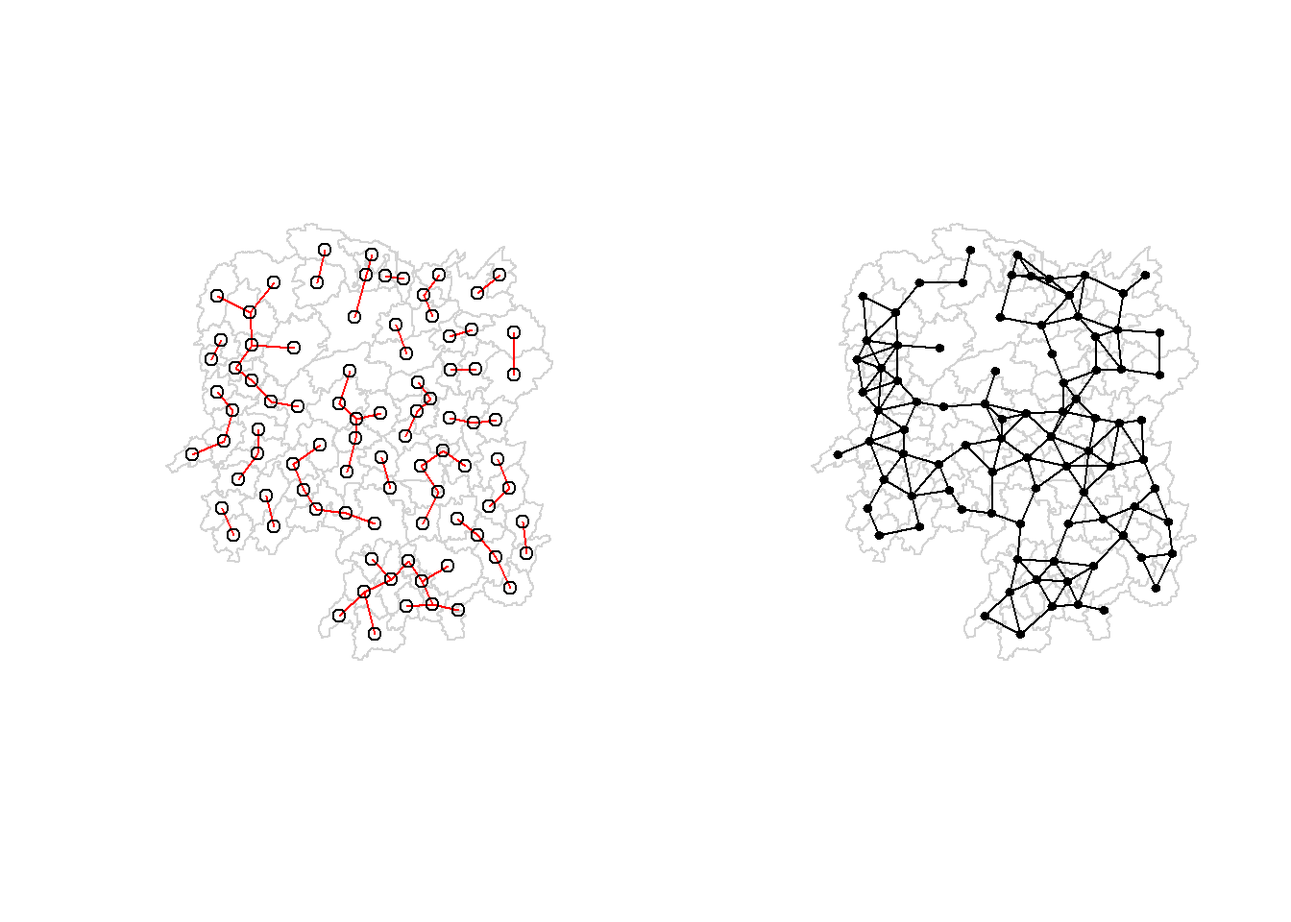
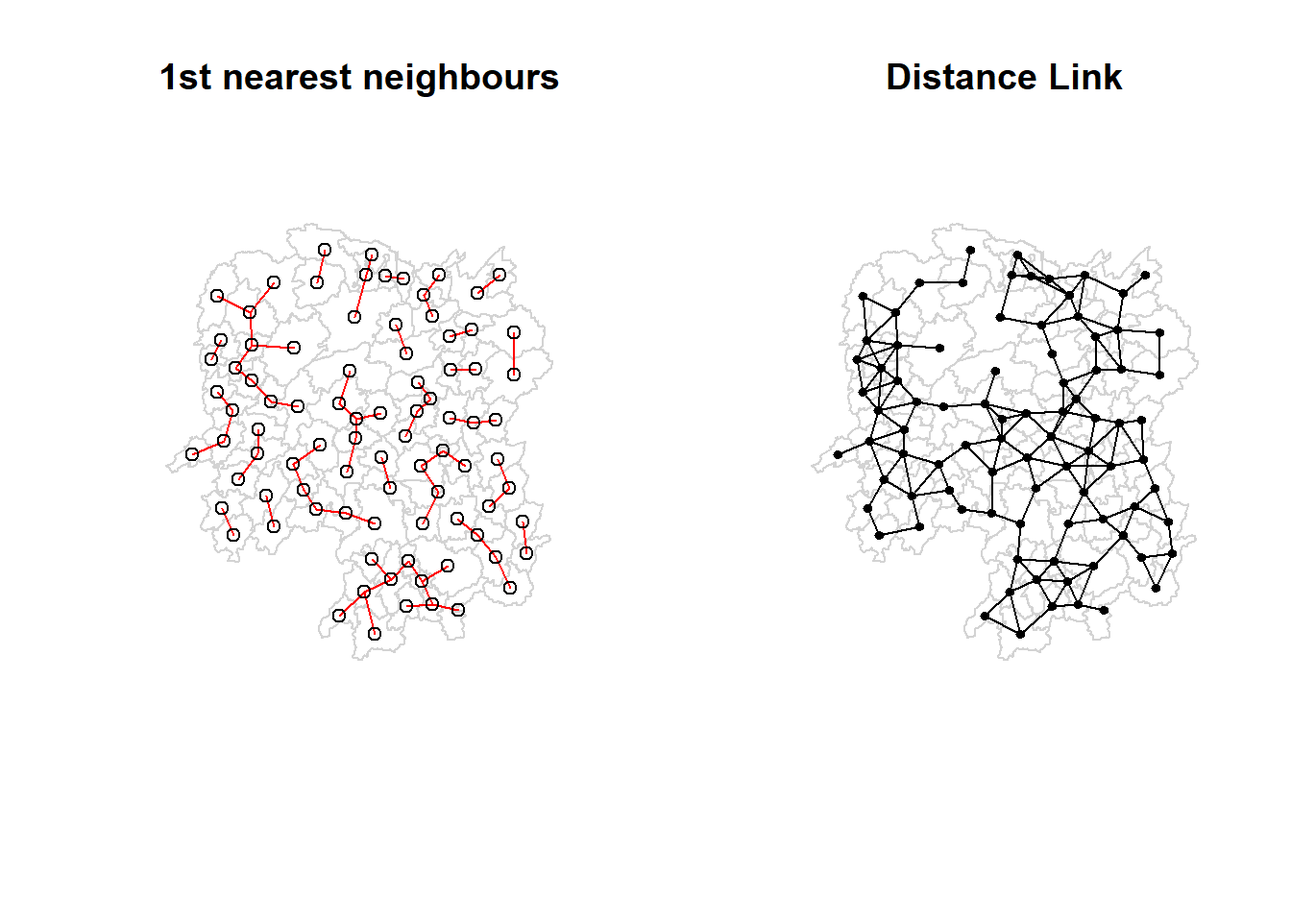
Updates to exercises

Changed region(s): [[0.125, 0.0625, 0.4375, 0.125], [0.6875, 0.0625, 0.875, 0.0938]]

diff --git a/_site/Exercises/Hands-on_Ex2/Hands-on_Ex2.html b/_site/Exercises/Hands-on_Ex2/Hands-on_Ex2.html
@@ -292,7 +292,7 @@ code span.wa { color: #60a0b0; font-weight: bold; font-style: italic; } /* Warni
 <h2 data-number="2" class="anchored" data-anchor-id="getting-started"><span class="header-section-number">2</span> Getting Started</h2>
 <section id="the-analytical-question" class="level3" data-number="2.1">
 <h3 data-number="2.1" class="anchored" data-anchor-id="the-analytical-question"><span class="header-section-number">2.1</span> The analytical question</h3>
-<p>In spatial policy, one of the main development objectives of the local govenment and planners is to <strong>ensure equal distribution of development</strong> in the province. Our task in this study, hence, is to <strong>apply appropriate spatial statistical methods to discover if development are even distributed geographically</strong>.</p>
+<p>In spatial policy, one of the main development objectives of the local government and planners is to <strong>ensure equal distribution of development</strong> in the province. Our task in this study, hence, is to <strong>apply appropriate spatial statistical methods to discover if development are even distributed geographically</strong>.</p>
 <p>If the answer is <strong>No</strong>. Then, our next question would be “is there sign of spatial clustering?”. And, if the answer for this question is <strong>Yes</strong>, then our next question will be “where are these clusters?”</p>
 <p>In this case study, we are interested to examine the spatial pattern of a selected development indicator (i.e.&nbsp;GDP per capita or GDPPC) of <a href="https://en.wikipedia.org/wiki/Hunan">Hunan Province</a>, People Republic of China.</p>
 </section>
@@ -317,7 +317,7 @@ code span.wa { color: #60a0b0; font-weight: bold; font-style: italic; } /* Warni
 <p>The geospatial data is in ESRI shapefile format and the attribute table is in csv fomat.</p>
 <section id="import-shapefile-into-r" class="level3" data-number="3.1">
 <h3 data-number="3.1" class="anchored" data-anchor-id="import-shapefile-into-r"><span class="header-section-number">3.1</span> Import shapefile into R</h3>
-<p>The code chunk below uses <a href="https://r-spatial.github.io/sf/reference/st_read.html"><em>st_read()</em></a> of <strong>sf</strong> package to import Hunan shapefile into R. The imported shapefile will be <strong>simple features</strong> object of <strong>sf</strong>.</p>
+<p>The code chunk below uses <a href="https://r-spatial.github.io/sf/reference/st_read.html"><em>st_read()</em></a> of <strong>sf</strong> package to import <code>Hunan</code> shapefile into R. The imported shapefile will be <strong>simple features</strong> object of <strong>sf</strong>.</p>
 <div class="cell">
 <div class="sourceCode cell-code" id="cb2"><pre class="sourceCode r code-with-copy"><code class="sourceCode r"><span id="cb2-1"><a href="#cb2-1" aria-hidden="true" tabindex="-1"></a>hunan <span class="ot">&lt;-</span> <span class="fu">st_read</span>(<span class="at">dsn =</span> <span class="st">'data</span><span class="sc">\\</span><span class="st">geospatial'</span>,</span>
 <span id="cb2-2"><a href="#cb2-2" aria-hidden="true" tabindex="-1"></a>                 <span class="at">layer =</span> <span class="st">'Hunan'</span>)</span></code><button title="Copy to Clipboard" class="code-copy-button"><i class="bi"></i></button></pre></div>
@@ -412,9 +412,9 @@ Link number distribution:
 </section>
 <section id="row-standardised-weights-matrix" class="level3" data-number="4.2">
 <h3 data-number="4.2" class="anchored" data-anchor-id="row-standardised-weights-matrix"><span class="header-section-number">4.2</span> Row-standardised weights matrix</h3>
-<p>Next, we need to assign weights to each neighboring polygon. In our case, each neighboring polygon will be assigned equal weight (style="W"). This is accomplished by assigning the fraction 1/(#ofneighbors) to each neighbouring county then summing the weighted income values.</p>
-<p>While this is the most intuitive way to summaries the neighbors' values it has one drawback in that polygons along the edges of the study area will base their lagged values on fewer polygons thus potentially over- or under-estimating the true nature of the spatial autocorrelation in the data.</p>
-<p>Note that other more robust options are available, notably style="B".</p>
+<p>Next, we need to assign weights to each neighboring polygon. In our case, each neighboring polygon will be assigned equal weight (style=“W”). This is accomplished by assigning the fraction 1/(#ofneighbors) to each neighbouring county then summing the weighted income values.</p>
+<p>While this is the most intuitive way to summaries the neighbors’ values it has one drawback in that polygons along the edges of the study area will base their lagged values on fewer polygons thus potentially over- or under-estimating the true nature of the spatial autocorrelation in the data.</p>
+<p>Note that other more robust options are available, notably style=“B”.</p>
 <div class="cell">
 <div class="sourceCode cell-code" id="cb10"><pre class="sourceCode r code-with-copy"><code class="sourceCode r"><span id="cb10-1"><a href="#cb10-1" aria-hidden="true" tabindex="-1"></a>rswm_q <span class="ot">&lt;-</span> <span class="fu">nb2listw</span>(wm_q,</span>
 <span id="cb10-2"><a href="#cb10-2" aria-hidden="true" tabindex="-1"></a>                   <span class="at">style =</span> <span class="st">"W"</span>,</span>
@@ -476,7 +476,7 @@ Moran I statistic       Expectation          Variance
 <h4 data-number="4.3.1" class="anchored" data-anchor-id="computing-monte-carlo-morans-i"><span class="header-section-number">4.3.1</span> Computing Monte Carlo Moran’s I</h4>
 <p>If we have doubts that the assumptions of Moran’s I are true (normality and randomisation), we can use a Monte Carlo simulation to perform a permutation test for Moran’s I.</p>
 <p>The permutation tests consists of randomly reassigning the attribute values to a cell under the assumption of no spatial pattern. This random assignment is conducted n times. Each time, we will compute the Moran’s I to creating an empirical distribution of Moran’s I under H0.</p>
-<p>The code chunk below performs permutation test for Moran's I statistic by using <a href="https://r-spatial.github.io/spdep/reference/moran.mc.html"><em>moran.mc()</em></a> of <strong>spdep</strong>. A total of 1000 simulation will be performed.</p>
+<p>The code chunk below performs permutation test for Moran’s I statistic by using <a href="https://r-spatial.github.io/spdep/reference/moran.mc.html"><em>moran.mc()</em></a> of <strong>spdep</strong>. A total of 1000 simulation will be performed.</p>
 <pre><code>moran.mc(x, listw, nsim, zero.policy=NULL, alternative="greater",
  na.action=na.fail, spChk=NULL, return_boot=FALSE, adjust.n=TRUE)</code></pre>
 <p>We will test the following hypothesis using a one-tailed test:</p>
@@ -508,7 +508,7 @@ alternative hypothesis: greater</code></pre>
 </section>
 <section id="visualising-monte-carlo-morans-i" class="level4" data-number="4.3.2">
 <h4 data-number="4.3.2" class="anchored" data-anchor-id="visualising-monte-carlo-morans-i"><span class="header-section-number">4.3.2</span> Visualising Monte Carlo Moran’s I</h4>
-<p>We can examine the simulated Moran's I test statistics in greater detail through descriptive statistics and plotting the distribution of the statistical values as a histogram by using the code chunks below.</p>
+<p>We can examine the simulated Moran’s I test statistics in greater detail through descriptive statistics and plotting the distribution of the statistical values as a histogram by using the code chunks below.</p>
 <p>The mean gives the average of Moran’s I for all simulated distributions.</p>
 <div class="cell">
 <div class="sourceCode cell-code" id="cb18"><pre class="sourceCode r code-with-copy"><code class="sourceCode r"><span id="cb18-1"><a href="#cb18-1" aria-hidden="true" tabindex="-1"></a><span class="fu">mean</span>(bperm<span class="sc">$</span>res[<span class="dv">1</span><span class="sc">:</span><span class="dv">999</span>])</span></code><button title="Copy to Clipboard" class="code-copy-button"><i class="bi"></i></button></pre></div>
@@ -516,7 +516,7 @@ alternative hypothesis: greater</code></pre>
 <pre><code>[1] -0.01504572</code></pre>
 </div>
 </div>
-<p>The variance of Moran's I for all simulated distributions can be computed using this code chunk.</p>
+<p>The variance of Moran’s I for all simulated distributions can be computed using this code chunk.</p>
 <div class="cell">
 <div class="sourceCode cell-code" id="cb20"><pre class="sourceCode r code-with-copy"><code class="sourceCode r"><span id="cb20-1"><a href="#cb20-1" aria-hidden="true" tabindex="-1"></a><span class="fu">var</span>(bperm<span class="sc">$</span>res[<span class="dv">1</span><span class="sc">:</span><span class="dv">999</span>])</span></code><button title="Copy to Clipboard" class="code-copy-button"><i class="bi"></i></button></pre></div>
 <div class="cell-output cell-output-stdout">
@@ -561,7 +561,7 @@ alternative hypothesis: greater</code></pre>
 </section>
 <section id="global-spatial-autocorrelation-gearys-c" class="level3" data-number="4.4">
 <h3 data-number="4.4" class="anchored" data-anchor-id="global-spatial-autocorrelation-gearys-c"><span class="header-section-number">4.4</span> Global Spatial Autocorrelation: Geary’s C</h3>
-<p>In this section, I learned how to perform Geary's C statistics testing by using appropriate functions of <strong>spdep</strong> package.</p>
+<p>In this section, I learned how to perform Geary’s C statistics testing by using appropriate functions of <strong>spdep</strong> package.</p>
 <section id="gearys-c-test" class="level4" data-number="4.4.1">
 <h4 data-number="4.4.1" class="anchored" data-anchor-id="gearys-c-test"><span class="header-section-number">4.4.1</span> Geary’s C Test</h4>
 <p>Geary’s C describe how features differ from their immediate neighbours. If the Geary’s C (Z-value is):</p>
@@ -575,7 +575,7 @@ alternative hypothesis: greater</code></pre>
 <li><p>H0: Observed spatial patterns of values is equally likely as any other spatial pattern i.e.&nbsp;data is randomly disbursed, no spatial pattern</p></li>
 <li><p>H1: Data is more spatially clustered than expected by chance alone</p></li>
 </ul>
-<p>The code chunk below performs Geary's C test for spatial autocorrelation by using <a href="https://r-spatial.github.io/spdep/reference/geary.test.html"><em>geary.test()</em></a> of <strong>spdep</strong>.</p>
+<p>The code chunk below performs Geary’s C test for spatial autocorrelation by using <a href="https://r-spatial.github.io/spdep/reference/geary.test.html"><em>geary.test()</em></a> of <strong>spdep</strong>.</p>
 <pre><code>geary.test(x, listw, randomisation=TRUE, zero.policy=NULL,
     alternative="greater", spChk=NULL, adjust.n=TRUE)</code></pre>
 <div class="cell">
@@ -598,7 +598,7 @@ Geary C statistic       Expectation          Variance
 </section>
 <section id="computing-monte-carlo-gearys-c" class="level4" data-number="4.4.2">
 <h4 data-number="4.4.2" class="anchored" data-anchor-id="computing-monte-carlo-gearys-c"><span class="header-section-number">4.4.2</span> Computing Monte Carlo Geary’s C</h4>
-<p>The code chunk below performs permutation test for Geary's C statistic by using <a href="https://r-spatial.github.io/spdep/reference/geary.mc.html"><em>geary.mc()</em></a> of <strong>spdep</strong>.</p>
+<p>The code chunk below performs permutation test for Geary’s C statistic by using <a href="https://r-spatial.github.io/spdep/reference/geary.mc.html"><em>geary.mc()</em></a> of <strong>spdep</strong>.</p>
 <div class="cell">
 <div class="sourceCode cell-code" id="cb30"><pre class="sourceCode r code-with-copy"><code class="sourceCode r"><span id="cb30-1"><a href="#cb30-1" aria-hidden="true" tabindex="-1"></a><span class="fu">set.seed</span>(<span class="dv">1234</span>)</span>
 <span id="cb30-2"><a href="#cb30-2" aria-hidden="true" tabindex="-1"></a>bperm <span class="ot">=</span> <span class="fu">geary.mc</span>(hunan<span class="sc">$</span>GDPPC,</span>
@@ -660,10 +660,10 @@ alternative hypothesis: greater</code></pre>
 </section>
 <section id="spatial-correlogram" class="level2" data-number="5">
 <h2 data-number="5" class="anchored" data-anchor-id="spatial-correlogram"><span class="header-section-number">5</span> Spatial Correlogram</h2>
-<p>Spatial correlograms are great to examine patterns of spatial autocorrelation in your data or model residuals. They show how correlated are pairs of spatial observations when you increase the distance (lag) between them - they are plots of some index of autocorrelation (Moran's I or Geary's c) against distance.Although correlograms are not as fundamental as variograms (a keystone concept of geostatistics), they are very useful as an exploratory and descriptive tool. For this purpose they actually provide richer information than variograms.</p>
+<p>Spatial correlograms are great to examine patterns of spatial autocorrelation in your data or model residuals. They show how correlated are pairs of spatial observations when you increase the distance (lag) between them - they are plots of some index of autocorrelation (Moran’s I or Geary’s c) against distance.Although correlograms are not as fundamental as variograms (a keystone concept of geostatistics), they are very useful as an exploratory and descriptive tool. For this purpose they actually provide richer information than variograms.</p>
 <section id="compute-morans-i-correlogram" class="level3" data-number="5.1">
 <h3 data-number="5.1" class="anchored" data-anchor-id="compute-morans-i-correlogram"><span class="header-section-number">5.1</span> Compute Moran’s I correlogram</h3>
-<p>In the code chunk below, <a href="https://r-spatial.github.io/spdep/reference/sp.correlogram.html"><em>sp.correlogram()</em></a> of <strong>spdep</strong> package is used to compute a 6-lag spatial correlogram of GDPPC. The global spatial autocorrelation used in Moran's I. The <strong>plot()</strong> of base Graph is then used to plot the output.</p>
+<p>In the code chunk below, <a href="https://r-spatial.github.io/spdep/reference/sp.correlogram.html"><em>sp.correlogram()</em></a> of <strong>spdep</strong> package is used to compute a 6-lag spatial correlogram of GDPPC. The global spatial autocorrelation used in Moran’s I. The <strong>plot()</strong> of base Graph is then used to plot the output.</p>
 <pre><code>sp.correlogram(neighbours, var, order = 1, method = "corr",
  style = "W", randomisation = TRUE, zero.policy = NULL, spChk=NULL)
 # S3 method for spcor
@@ -702,7 +702,7 @@ Signif. codes:  0 '***' 0.001 '**' 0.01 '*' 0.05 '.' 0.1 ' ' 1</code></pre>
 </section>
 <section id="compute-gearys-c-correlogram-and-plot" class="level3" data-number="5.2">
 <h3 data-number="5.2" class="anchored" data-anchor-id="compute-gearys-c-correlogram-and-plot"><span class="header-section-number">5.2</span> Compute Geary’s C correlogram and plot</h3>
-<p>In the code chunk below, <em>sp.correlogram()</em> of <strong>spdep</strong> package is used to compute a 6-lag spatial correlogram of GDPPC. The global spatial autocorrelation used in Geary's C. The <strong>plot()</strong> of base Graph is then used to plot the output.</p>
+<p>In the code chunk below, <em>sp.correlogram()</em> of <strong>spdep</strong> package is used to compute a 6-lag spatial correlogram of GDPPC. The global spatial autocorrelation used in Geary’s C. The <strong>plot()</strong> of base Graph is then used to plot the output.</p>
 <div class="cell">
 <div class="sourceCode cell-code" id="cb43"><pre class="sourceCode r code-with-copy"><code class="sourceCode r"><span id="cb43-1"><a href="#cb43-1" aria-hidden="true" tabindex="-1"></a>GC_corr <span class="ot">&lt;-</span> <span class="fu">sp.correlogram</span>(wm_q,</span>
 <span id="cb43-2"><a href="#cb43-2" aria-hidden="true" tabindex="-1"></a>                          hunan<span class="sc">$</span>GDPPC,</span>
@@ -737,11 +737,11 @@ Signif. codes:  0 '***' 0.001 '**' 0.01 '*' 0.05 '.' 0.1 ' ' 1</code></pre>
 <section id="cluster-and-outlier-analysis" class="level2" data-number="6">
 <h2 data-number="6" class="anchored" data-anchor-id="cluster-and-outlier-analysis"><span class="header-section-number">6</span> Cluster and Outlier Analysis</h2>
 <p>Local Indicators of Spatial Association or LISA are statistics that <strong>evaluate the existence of clusters in the spatial arrangement of a given variable</strong>. For instance if we are studying cancer rates among census tracts in a given city, local clusters in the rates mean that there are areas that have higher or lower rates than is to be expected by chance alone; that is, the values occurring are above or below those of a random distribution in space.</p>
-<p>In this section, I learned how to apply appropriate Local Indicators for Spatial Association (LISA), especially local Moran's I to detect cluster and/or outlier from GDP per capita 2012 of Hunan Province, PRC.</p>
+<p>In this section, I learned how to apply appropriate Local Indicators for Spatial Association (LISA), especially local Moran’s I to detect cluster and/or outlier from GDP per capita 2012 of Hunan Province, PRC.</p>
 <section id="computing-local-morans-i" class="level3" data-number="6.1">
 <h3 data-number="6.1" class="anchored" data-anchor-id="computing-local-morans-i"><span class="header-section-number">6.1</span> Computing local Moran’s I</h3>
-<p>To compute local Moran's I, the <a href="https://r-spatial.github.io/spdep/reference/localmoran.html"><em>localmoran()</em></a> function of <strong>spdep</strong> will be used. It computes <em>Ii</em> values, given a set of <em>zi</em> values and a listw object providing neighbour weighting information for the polygon associated with the zi values.</p>
-<p>The code chunks below are used to compute local Moran's I of <em>GDPPC2012</em> at the county level.</p>
+<p>To compute local Moran’s I, the <a href="https://r-spatial.github.io/spdep/reference/localmoran.html"><em>localmoran()</em></a> function of <strong>spdep</strong> will be used. It computes <em>Ii</em> values, given a set of <em>zi</em> values and a listw object providing neighbour weighting information for the polygon associated with the zi values.</p>
+<p>The code chunks below are used to compute local Moran’s I of <em>GDPPC2012</em> at the county level.</p>
 <div class="cell">
 <div class="sourceCode cell-code" id="cb46"><pre class="sourceCode r code-with-copy"><code class="sourceCode r"><span id="cb46-1"><a href="#cb46-1" aria-hidden="true" tabindex="-1"></a>localMI <span class="ot">&lt;-</span> <span class="fu">localmoran</span>(hunan<span class="sc">$</span>GDPPC, rswm_q)</span>
 <span id="cb46-2"><a href="#cb46-2" aria-hidden="true" tabindex="-1"></a><span class="fu">head</span>(localMI)</span></code><button title="Copy to Clipboard" class="code-copy-button"><i class="bi"></i></button></pre></div>
@@ -757,7 +757,7 @@ Signif. codes:  0 '***' 0.001 '**' 0.01 '*' 0.05 '.' 0.1 ' ' 1</code></pre>
 </div>
 <p><em>localmoran()</em> returns a matrix of values whose columns are:</p>
 <ul>
-<li><p>Ii: the local Moran's I statistics</p></li>
+<li><p>Ii: the local Moran’s I statistics</p></li>
 <li><p>E.Ii: the expectation of local moran statistic under the randomisation hypothesis</p></li>
 <li><p>Var.Ii: the variance of local moran statistic under the randomisation hypothesis</p></li>
 <li><p>Z.Ii:the standard deviation of local moran statistic</p></li>
@@ -862,7 +862,7 @@ Zixing        -7.6849e-01 -8.8210e-02  9.4057e-01 -7.0144e-01         0.4830</co
 </div>
 <section id="mapping-the-local-morans-i" class="level4" data-number="6.1.1">
 <h4 data-number="6.1.1" class="anchored" data-anchor-id="mapping-the-local-morans-i"><span class="header-section-number">6.1.1</span> Mapping the local Moran’s I</h4>
-<p>Before mapping the local Moran's I map, I would append the local Moran's I dataframe (i.e.&nbsp;localMI) onto hunan SpatialPolygonDataFrame. The code chunks below can be used to perform the task.</p>
+<p>Before mapping the local Moran’s I map, I would append the local Moran’s I dataframe (i.e.&nbsp;localMI) onto hunan SpatialPolygonDataFrame. The code chunks below can be used to perform the task.</p>
 <div class="cell">
 <div class="sourceCode cell-code" id="cb50"><pre class="sourceCode r code-with-copy"><code class="sourceCode r"><span id="cb50-1"><a href="#cb50-1" aria-hidden="true" tabindex="-1"></a>hunan.localMI <span class="ot">&lt;-</span> <span class="fu">cbind</span>(hunan, localMI) <span class="sc">%&gt;%</span></span>
 <span id="cb50-2"><a href="#cb50-2" aria-hidden="true" tabindex="-1"></a><span class="fu">rename</span>(<span class="at">Pr.Ii =</span> Pr.z....E.Ii..)</span></code><button title="Copy to Clipboard" class="code-copy-button"><i class="bi"></i></button></pre></div>
@@ -870,7 +870,7 @@ Zixing        -7.6849e-01 -8.8210e-02  9.4057e-01 -7.0144e-01         0.4830</co
 </section>
 <section id="mapping-local-morans-i-values" class="level4" data-number="6.1.2">
 <h4 data-number="6.1.2" class="anchored" data-anchor-id="mapping-local-morans-i-values"><span class="header-section-number">6.1.2</span> Mapping local Moran’s I values</h4>
-<p>Using choropleth mapping functions of <strong>tmap</strong> package, we can plot the local Moran's I values by using the code chinks below.</p>
+<p>Using choropleth mapping functions of <strong>tmap</strong> package, we can plot the local Moran’s I values by using the code chinks below.</p>
 <div class="cell">
 <div class="sourceCode cell-code" id="cb51"><pre class="sourceCode r code-with-copy"><code class="sourceCode r"><span id="cb51-1"><a href="#cb51-1" aria-hidden="true" tabindex="-1"></a>localMI.map <span class="ot">&lt;-</span> <span class="fu">tm_shape</span>(hunan.localMI) <span class="sc">+</span> </span>
 <span id="cb51-2"><a href="#cb51-2" aria-hidden="true" tabindex="-1"></a>                  <span class="fu">tm_fill</span>(<span class="at">col =</span> <span class="st">"Ii"</span>,</span>
@@ -889,7 +889,7 @@ Zixing        -7.6849e-01 -8.8210e-02  9.4057e-01 -7.0144e-01         0.4830</co
 <section id="mapping-local-morans-i-p-values" class="level4" data-number="6.1.3">
 <h4 data-number="6.1.3" class="anchored" data-anchor-id="mapping-local-morans-i-p-values"><span class="header-section-number">6.1.3</span> Mapping local Moran’s I p-values</h4>
 <p>The choropleth above shows there is evidence for both positive and negative Ii values. However, it is useful to consider the p-values for each of these values, as consider above.</p>
-<p>The code chunks below produce a choropleth map of Moran's I p-values by using functions of <strong>tmap</strong> package.</p>
+<p>The code chunks below produce a choropleth map of Moran’s I p-values by using functions of <strong>tmap</strong> package.</p>
 <div class="cell">
 <div class="sourceCode cell-code" id="cb53"><pre class="sourceCode r code-with-copy"><code class="sourceCode r"><span id="cb53-1"><a href="#cb53-1" aria-hidden="true" tabindex="-1"></a>pvalue.map <span class="ot">&lt;-</span> <span class="fu">tm_shape</span>(hunan.localMI) <span class="sc">+</span> </span>
 <span id="cb53-2"><a href="#cb53-2" aria-hidden="true" tabindex="-1"></a>                <span class="fu">tm_fill</span>(<span class="at">col =</span> <span class="st">"Pr.Ii"</span>,</span>
@@ -907,7 +907,7 @@ Zixing        -7.6849e-01 -8.8210e-02  9.4057e-01 -7.0144e-01         0.4830</co
 </section>
 <section id="mapping-both-local-morans-i-values-and" class="level4" data-number="6.1.4">
 <h4 data-number="6.1.4" class="anchored" data-anchor-id="mapping-both-local-morans-i-values-and"><span class="header-section-number">6.1.4</span> Mapping both local Moran’s I values and</h4>
-<p>We can plot both the local Moran's I values map and its corresponding p-values map next to each other using <em>tmap_arrange()</em> from <strong>tmap</strong> package.</p>
+<p>We can plot both the local Moran’s I values map and its corresponding p-values map next to each other using <em>tmap_arrange()</em> from <strong>tmap</strong> package.</p>
 <div class="cell">
 <div class="sourceCode cell-code" id="cb54"><pre class="sourceCode r code-with-copy"><code class="sourceCode r"><span id="cb54-1"><a href="#cb54-1" aria-hidden="true" tabindex="-1"></a><span class="fu">tmap_arrange</span>(localMI.map, pvalue.map, <span class="at">asp =</span> <span class="dv">1</span>, <span class="at">ncol =</span> <span class="dv">2</span>)</span></code><button title="Copy to Clipboard" class="code-copy-button"><i class="bi"></i></button></pre></div>
 <div class="cell-output cell-output-stderr">
@@ -1088,7 +1088,7 @@ Geodetic CRS:  WGS 84
 <p>Beside detecting clusters and outliers, localised spatial statistics can also be used to detect hot spot and/or cold spot areas. Hot spot refers to areas that have higher values relative to its surroundings.</p>
 <section id="getis-and-ords-g-statistics" class="level3" data-number="8.1">
 <h3 data-number="8.1" class="anchored" data-anchor-id="getis-and-ords-g-statistics"><span class="header-section-number">8.1</span> Getis and Ord’s G-Statistics</h3>
-<p>The Getis and Ord's G-statistics (Getis and Ord, 1972; Ord and Getis, 1995) are alternative spatial statistics to detect spatial anomalies.</p>
+<p>The Getis and Ord’s G-statistics (Getis and Ord, 1972; Ord and Getis, 1995) are alternative spatial statistics to detect spatial anomalies.</p>
 <p>It looks at neighbours within a defined proximity to identify where either high or low values cluster spatially. Here, statistically significant <strong>hot-spots</strong> are recognised as <strong>areas of high values where other areas within a neighbourhood range also share high values</strong>.</p>
 <p>The analysis consists of three steps:</p>
 <ul>
@@ -1345,13 +1345,13 @@ attr(,"class")
 <p><img src="Hands-on_Ex2_files/figure-html/unnamed-chunk-57-1.png" class="img-fluid" width="672"></p>
 </div>
 </div>
-<p>Since the definition of neighbours changed, we observe difference between the above chart and the one from the previous section.</p>
+<p>Since the definition of neighbours changed, we can observe differences in identified cold/hot spots between the above chart and the one from the previous section.</p>
 </section>
 </section>
 </section>
 <section id="references" class="level2" data-number="10">
 <h2 data-number="10" class="anchored" data-anchor-id="references"><span class="header-section-number">10</span> References</h2>
-<p>Stephanie Glen. “Moran's I: Definition, Examples” From <a href="https://www.statisticshowto.com/"><strong>StatisticsHowTo.com</strong></a>: Elementary Statistics for the rest of us! <a href="https://www.statisticshowto.com/morans-i/" class="uri">https://www.statisticshowto.com/morans-i/</a></p>
+<p>Stephanie Glen. “Moran’s I: Definition, Examples” From <a href="https://www.statisticshowto.com/"><strong>StatisticsHowTo.com</strong></a>: Elementary Statistics for the rest of us! <a href="https://www.statisticshowto.com/morans-i/" class="uri">https://www.statisticshowto.com/morans-i/</a></p>
 <p>Tin Seong Kam. “4 Global and Local Measures of Spatial Autocorrelation” From <strong>R for Geospatial Data Science and Analytics</strong> <a href="https://r4gdsa.netlify.app/chap04.html" class="uri">https://r4gdsa.netlify.app/chap04.html</a></p>
 
 

diff --git a/_site/Exercises/In-class_Ex1/In-class_Ex1.html b/_site/Exercises/In-class_Ex1/In-class_Ex1.html
@@ -916,11 +916,11 @@ $comp.id
 </div>
 <div class="cell">
 <div class="sourceCode cell-code" id="cb51"><pre class="sourceCode r code-with-copy"><code class="sourceCode r"><span id="cb51-1"><a href="#cb51-1" aria-hidden="true" tabindex="-1"></a><span class="fu">par</span>(<span class="at">mfrow =</span> <span class="fu">c</span>(<span class="dv">1</span>,<span class="dv">2</span>))</span>
-<span id="cb51-2"><a href="#cb51-2" aria-hidden="true" tabindex="-1"></a><span class="fu">plot</span>(hunan<span class="sc">$</span>geometry, <span class="at">border =</span> <span class="st">"lightgrey"</span>)</span>
-<span id="cb51-3"><a href="#cb51-3" aria-hidden="true" tabindex="-1"></a><span class="fu">plot</span>(k1, coords, <span class="at">add =</span> <span class="cn">TRUE</span>, <span class="at">col =</span> <span class="st">"red"</span>, <span class="at">length =</span> <span class="fl">0.88</span>, <span class="at">main=</span><span class="st">"1st nearest neighbours"</span>)</span>
+<span id="cb51-2"><a href="#cb51-2" aria-hidden="true" tabindex="-1"></a><span class="fu">plot</span>(hunan<span class="sc">$</span>geometry, <span class="at">border =</span> <span class="st">"lightgrey"</span>,<span class="at">main=</span><span class="st">"1st nearest neighbours"</span> )</span>
+<span id="cb51-3"><a href="#cb51-3" aria-hidden="true" tabindex="-1"></a><span class="fu">plot</span>(k1, coords, <span class="at">add =</span> <span class="cn">TRUE</span>, <span class="at">col =</span> <span class="st">"red"</span>, <span class="at">length =</span> <span class="fl">0.88</span>, )</span>
 <span id="cb51-4"><a href="#cb51-4" aria-hidden="true" tabindex="-1"></a></span>
-<span id="cb51-5"><a href="#cb51-5" aria-hidden="true" tabindex="-1"></a><span class="fu">plot</span>(hunan<span class="sc">$</span>geometry, <span class="at">border =</span> <span class="st">"lightgrey"</span>)</span>
-<span id="cb51-6"><a href="#cb51-6" aria-hidden="true" tabindex="-1"></a><span class="fu">plot</span>(wm_d62, coords, <span class="at">add =</span> <span class="cn">TRUE</span>, <span class="at">pch =</span> <span class="dv">19</span>, <span class="at">cex =</span> <span class="fl">0.6</span>, <span class="at">main =</span> <span class="st">"Distance Link"</span>)</span></code><button title="Copy to Clipboard" class="code-copy-button"><i class="bi"></i></button></pre></div>
+<span id="cb51-5"><a href="#cb51-5" aria-hidden="true" tabindex="-1"></a><span class="fu">plot</span>(hunan<span class="sc">$</span>geometry, <span class="at">border =</span> <span class="st">"lightgrey"</span>, <span class="at">main =</span> <span class="st">"Distance Link"</span>)</span>
+<span id="cb51-6"><a href="#cb51-6" aria-hidden="true" tabindex="-1"></a><span class="fu">plot</span>(wm_d62, coords, <span class="at">add =</span> <span class="cn">TRUE</span>, <span class="at">pch =</span> <span class="dv">19</span>, <span class="at">cex =</span> <span class="fl">0.6</span>)</span></code><button title="Copy to Clipboard" class="code-copy-button"><i class="bi"></i></button></pre></div>
 <div class="cell-output-display">
 <p><img src="In-class_Ex1_files/figure-html/unnamed-chunk-29-1.png" class="img-fluid" width="672"></p>
 </div>
